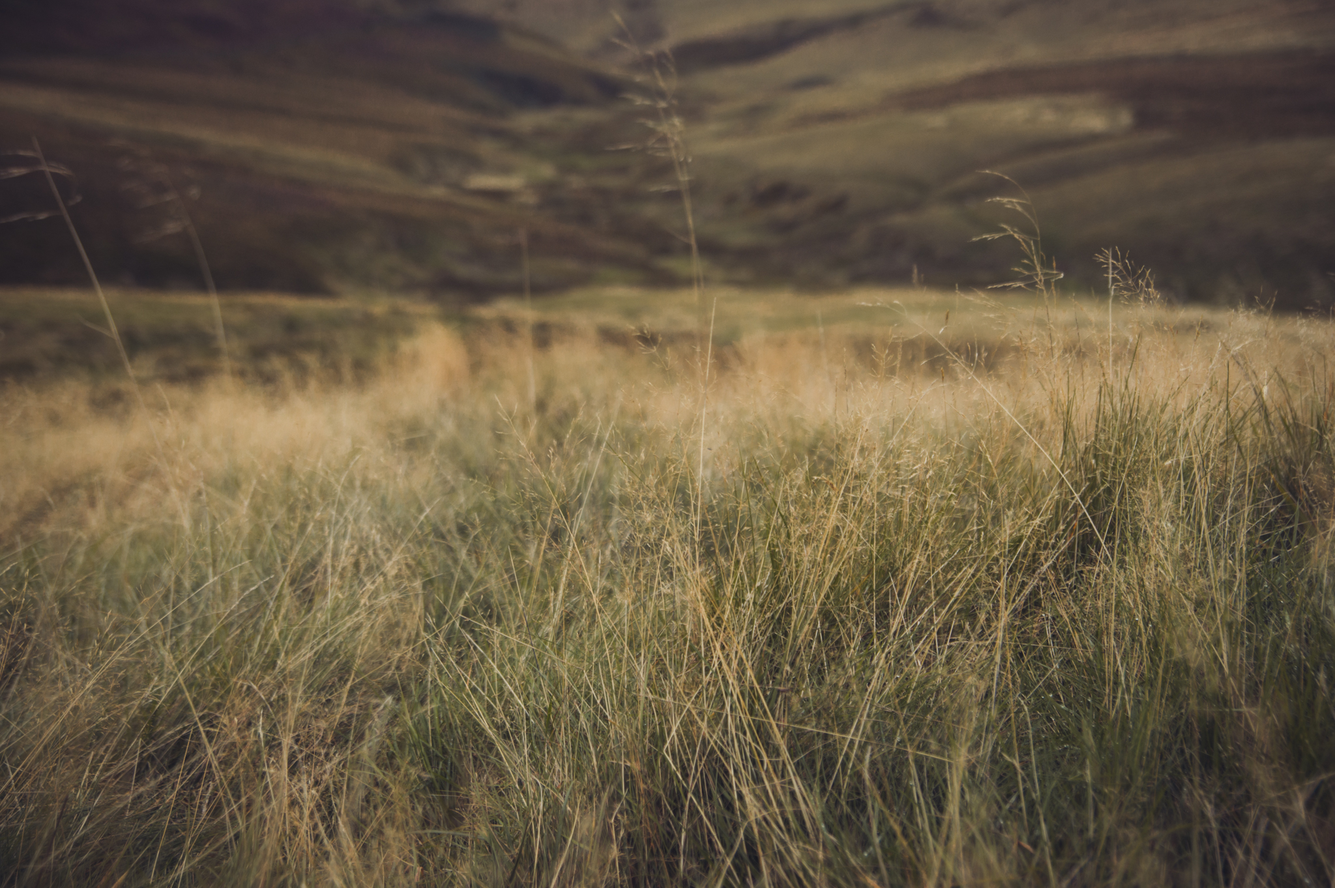
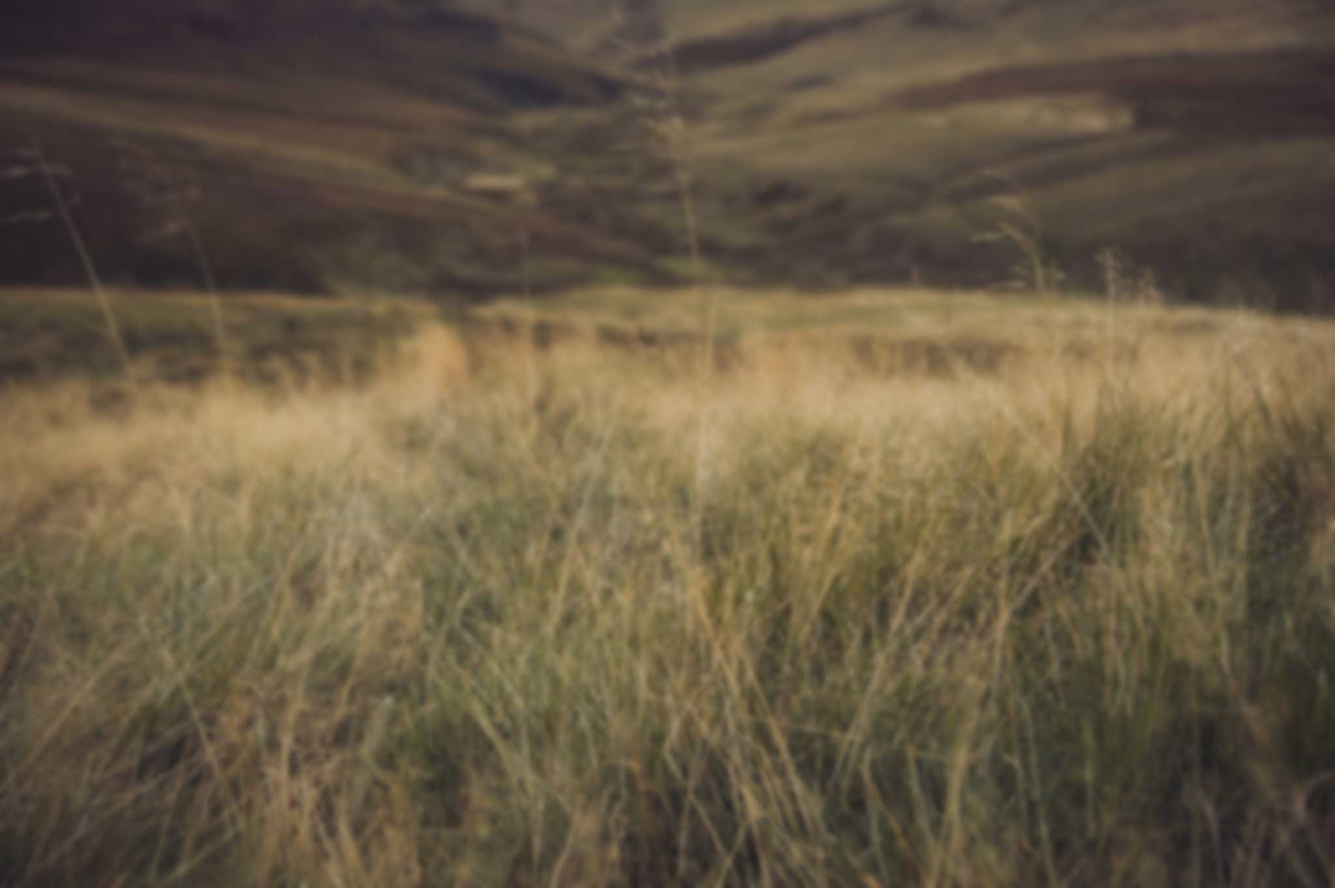
Edited background and description

diff --git a/index.html b/index.html
@@ -10,11 +10,11 @@
 			<img src="profile.jpg" alt="" class="box-img">
 			<h1>Songyuan Zhao</h1>
 			<h5>Physics PhD student at University of Cambridge</h5>
-			<p>Blah blah blah</p>
+			<p>Hi there. I am a PhD student at Cambridge researching the physics of superconductor-based parametric amplifiers. In my free time I like to read, take photos, and play folk music with the Cambridge University Ceilidh Band.</p>
 			<ul>
-				<li><a href=""><i class="fa fa-facebook-square" aria-hidden="true"></i></a></li>
-				<li><a href=""><i class="fa fa-envelope" aria-hidden="true"></i></a></li>
-				<li><a href=""><i class="fa fa-university" aria-hidden="true"></i></a></li>
+				<li><a href="https://www.facebook.com/zhaosongyuan"><i class="fa fa-facebook-square" aria-hidden="true"></i></a></li>
+				<li><a href="https://www.phy.cam.ac.uk/research/research-groups/qs"><i class="fa fa-university" aria-hidden="true"></i></a></li>
+				<li><a href="sz311@cam.ac.uk"><i class="fa fa-envelope" aria-hidden="true"></i></a></li>
 			</ul>
 		</div>
 	</body>
